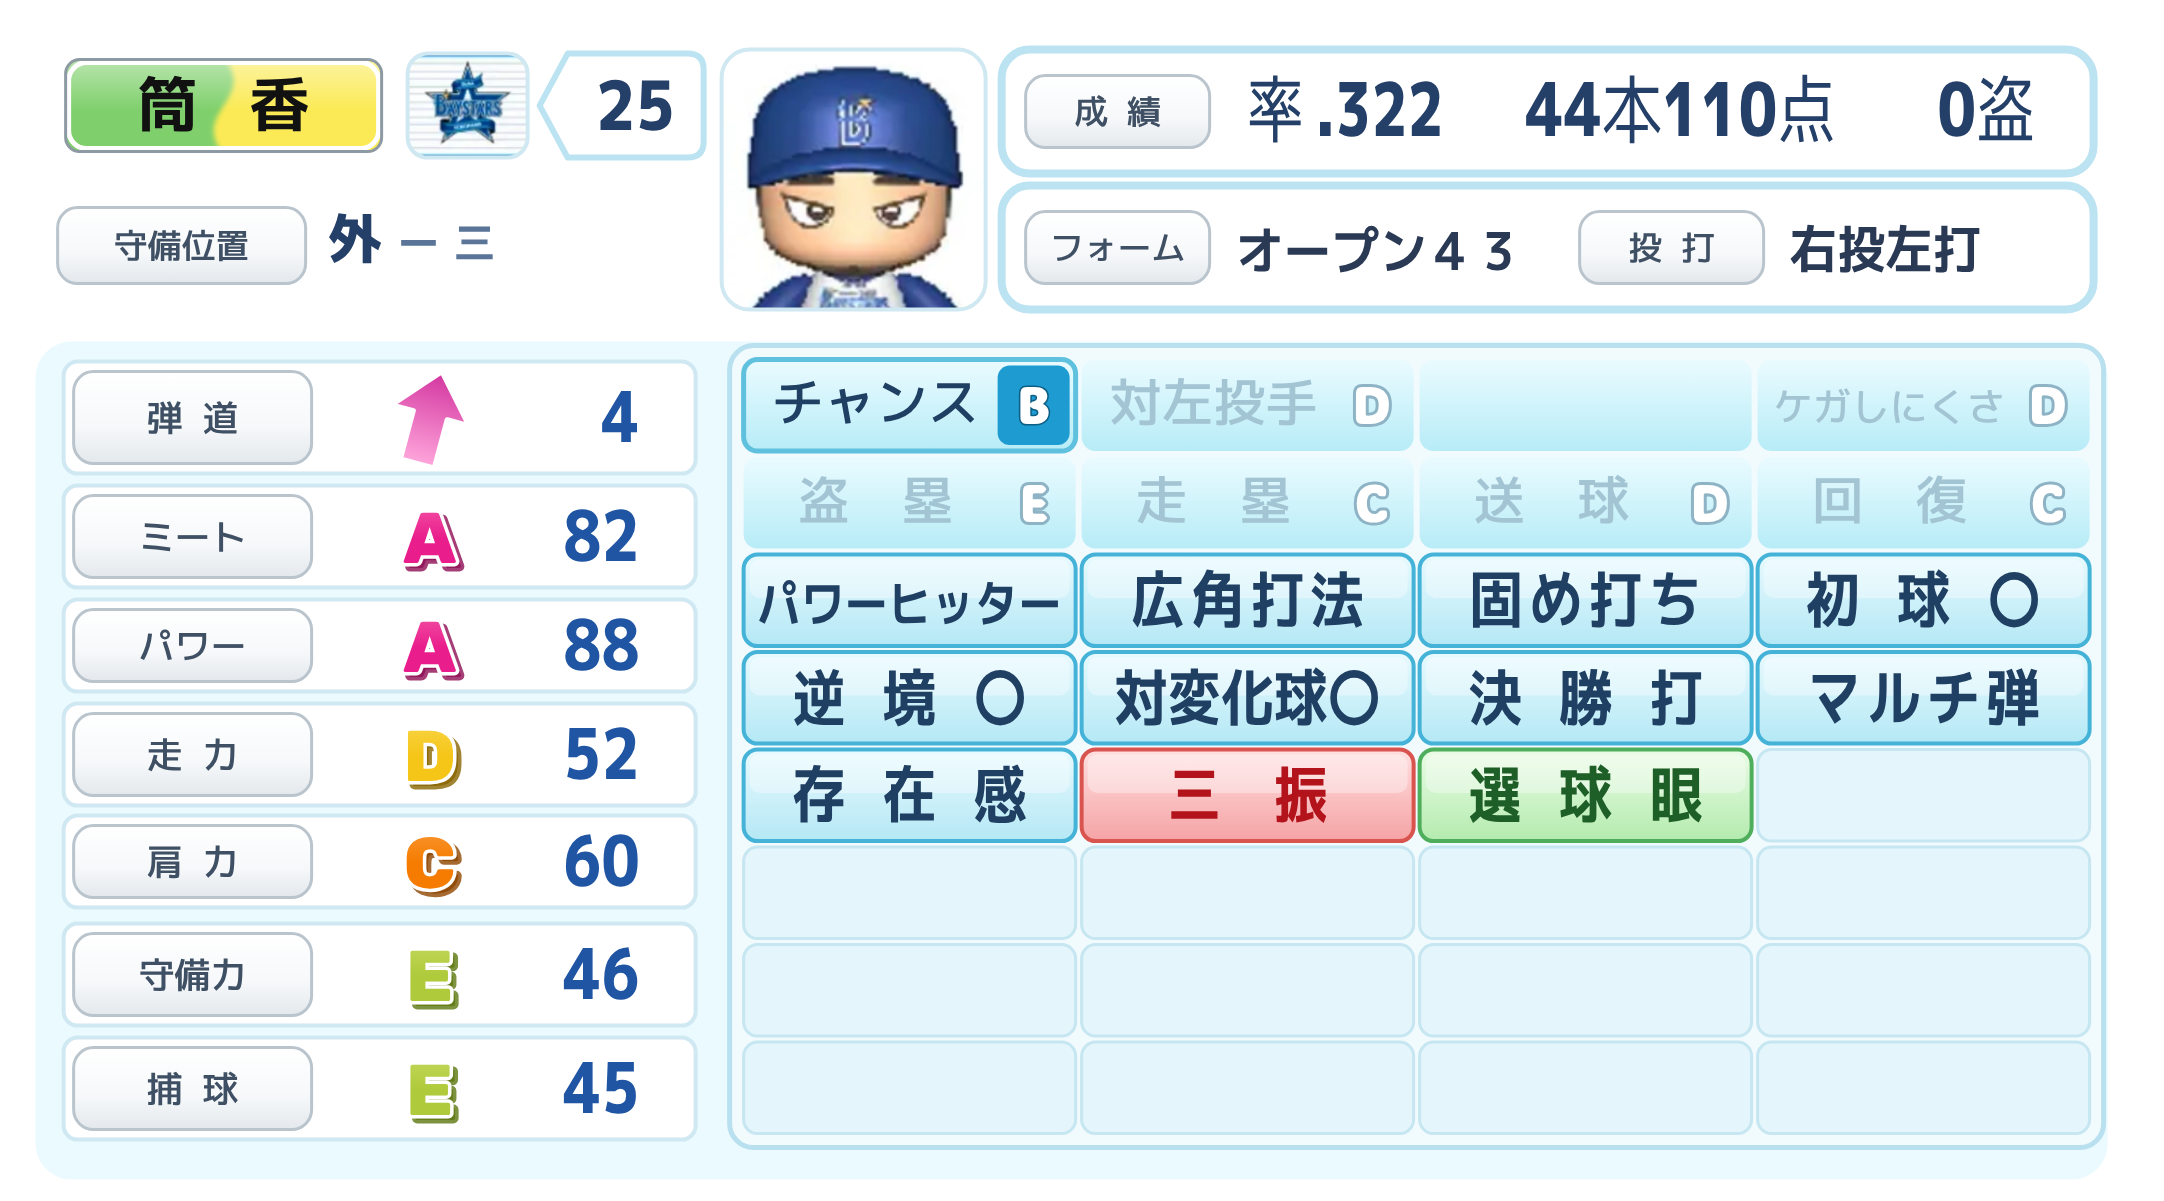
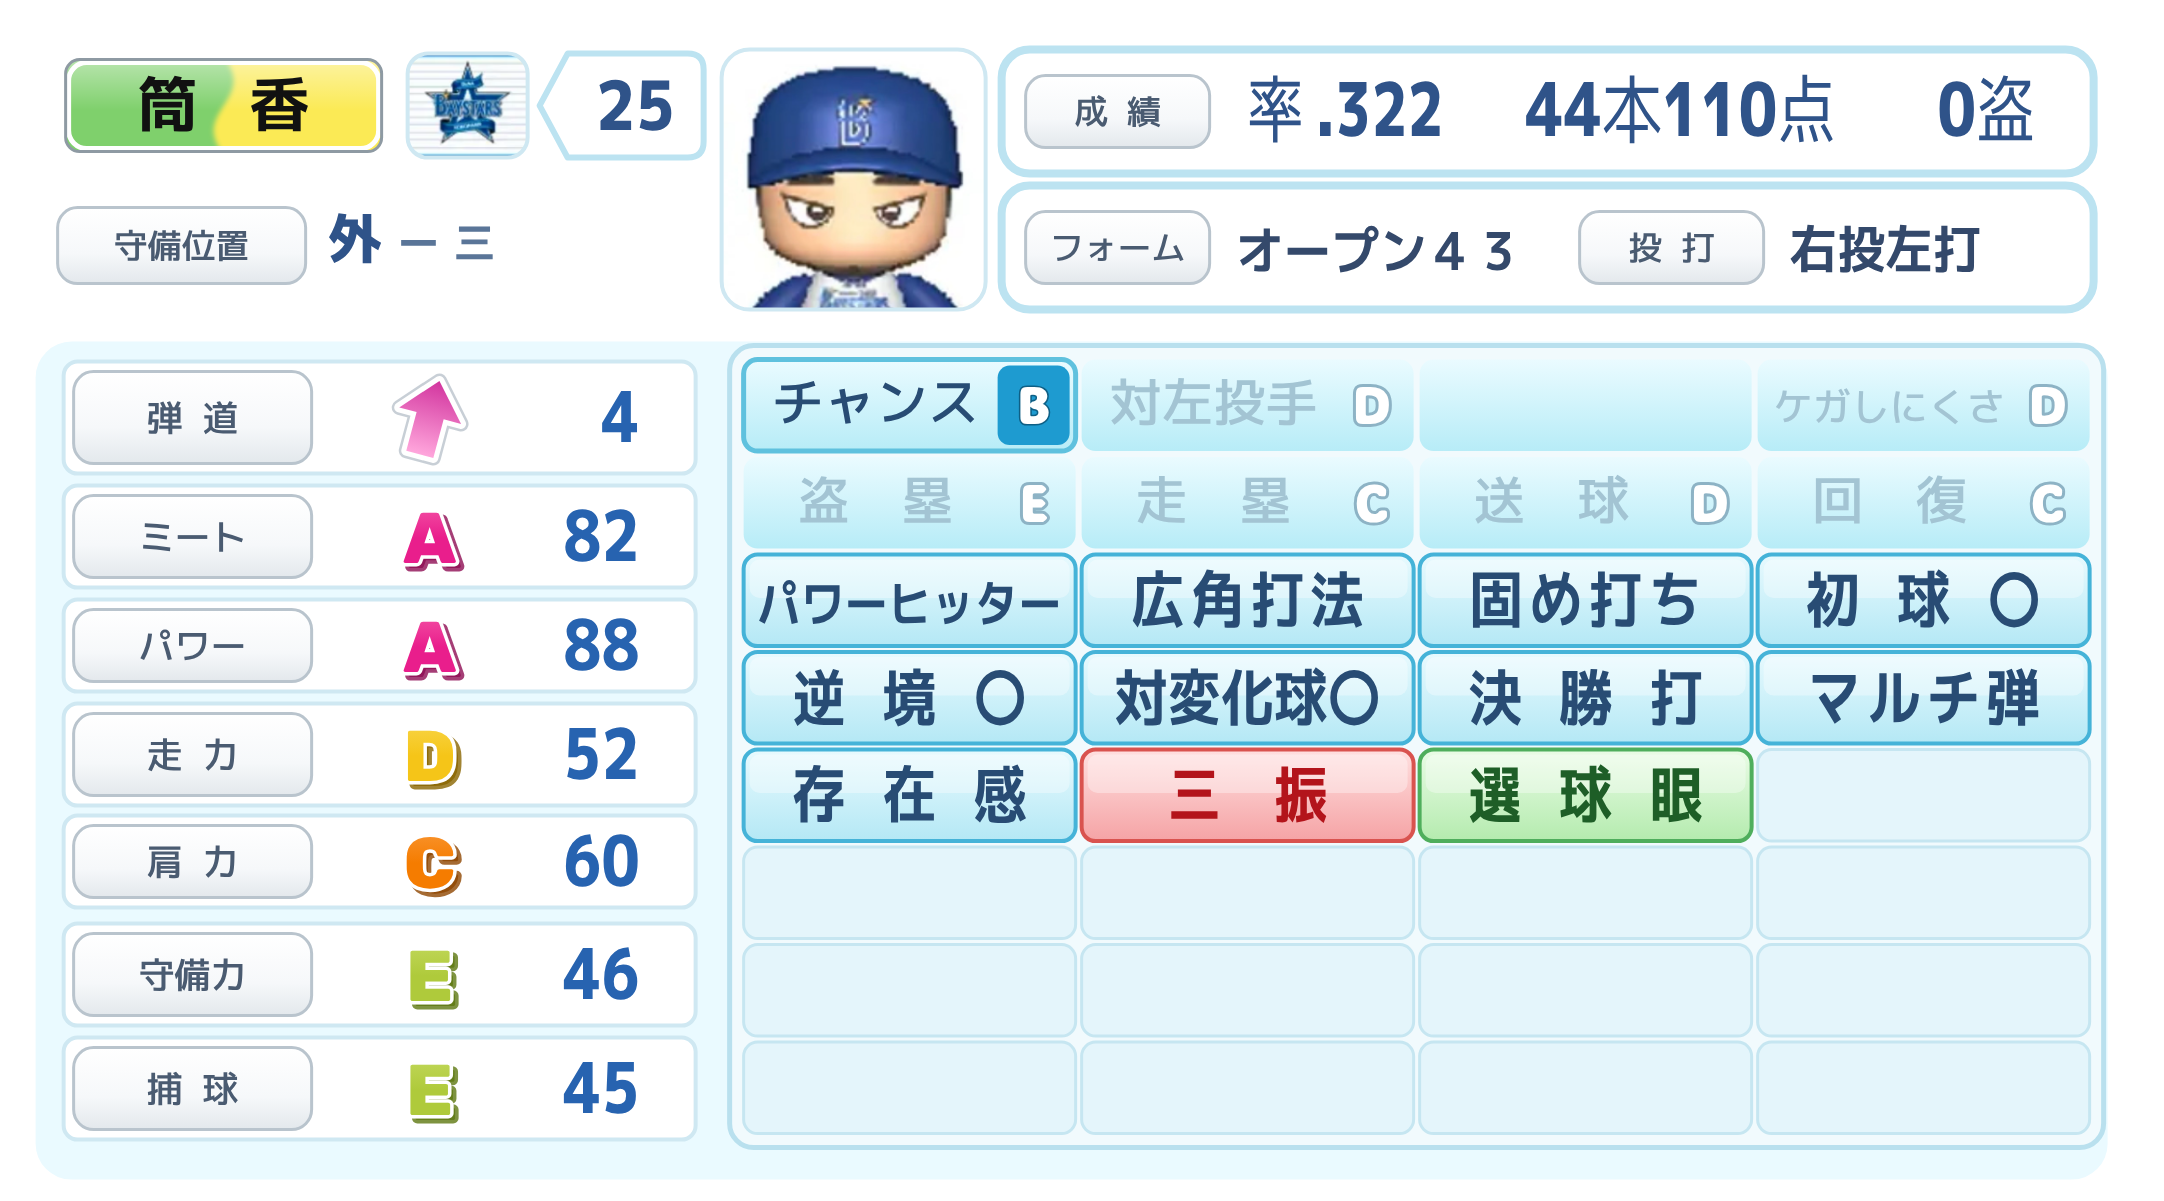
能力画像ジェネレーター（野手）：弾道の矢印を小さく白縁を太く、文字の紺を薄く
- 弾道の矢印をひと回り小さくし、白い縁取りを太く（外側にごく薄い影の縁）
- 成績・フォーム・投打・守備位置・背番号の値、能力値の数字、特殊能力と
  項目名の文字の紺を一段薄く
- 使用例の画像を作り直す

Claude-Session: https://claude.ai/code/session_01SKh1jhAp32CEmbZCaaEmgk

diff --git a/nouryoku/index.html b/nouryoku/index.html
@@ -337,7 +337,7 @@ footer.disclaimer{ margin-top:30px; font-size:0.82rem; color:var(--ink-mute); bo
 </p>
 
 <p>
-<img src="/nouryoku/example-tsutsugo.png?v=11" alt="パワプロ風 能力画像ジェネレーター（野手）で作成した能力画像の例" width="2164" height="1201" loading="lazy" style="max-width:100%; height:auto; border:1px solid #c2cad6; border-radius:12px;">
+<img src="/nouryoku/example-tsutsugo.png?v=12" alt="パワプロ風 能力画像ジェネレーター（野手）で作成した能力画像の例" width="2164" height="1201" loading="lazy" style="max-width:100%; height:auto; border:1px solid #c2cad6; border-radius:12px;">
 </p>
 
 <h2>よくある質問</h2>
@@ -699,7 +699,7 @@ function labelPill(x, y, w, h, text, size) {
     return '<defs><linearGradient id="' + gid + '" x1="0" y1="0" x2="0" y2="1">' +
            '<stop offset="0" stop-color="#FFFFFF"/><stop offset="0.6" stop-color="#F6F8FA"/><stop offset="1" stop-color="#E3E8EC"/></linearGradient></defs>' +
            '<rect x="' + x + '" y="' + y + '" width="' + w + '" height="' + h + '" rx="' + Math.min(10, h / 2) + '" fill="url(#' + gid + ')" stroke="#B9C4CD" stroke-width="1.5"/>' +
-           '<text ' + fitAttr + ' x="' + (x + w / 2) + '" y="' + (y + h / 2 + fs * 0.36) + '" text-anchor="middle" font-size="' + fs + '" font-weight="500" fill="#3F5064" font-family="&quot;M PLUS 1p&quot;,&quot;Hiragino Kaku Gothic ProN&quot;,sans-serif">' + esc(text) + '</text>';
+           '<text ' + fitAttr + ' x="' + (x + w / 2) + '" y="' + (y + h / 2 + fs * 0.36) + '" text-anchor="middle" font-size="' + fs + '" font-weight="500" fill="#4A5B71" font-family="&quot;M PLUS 1p&quot;,&quot;Hiragino Kaku Gothic ProN&quot;,sans-serif">' + esc(text) + '</text>';
 }
 
 /* ---- 能力値のランク文字 ----
@@ -882,7 +882,7 @@ function buildCatBadges() {
    赤特は純粋な赤色の単色。赤青特（☆がプラスの赤特）だけ左赤・右青のツートンにする。 */
 var CAT_STYLE = {
     kintoku: { bg: ["#FFF3D0", "#F5DFA8"], border: "#E0B03C", text: "#7A4520" },
-    aoto:    { bg: ["#E8FAFE", "#B4E8F5"], border: "#45B3D8", text: "#1F3F63" },
+    aoto:    { bg: ["#E8FAFE", "#B4E8F5"], border: "#45B3D8", text: "#284C74" },
     midori:  { bg: ["#EAFCE6", "#B4EBAE"], border: "#4FAE5C", text: "#1E5E27" },
     aka:     { bg: ["#FFE0E0", "#F5A3A5"], border: "#D9534F", text: "#B3141B" }
 };
@@ -943,7 +943,7 @@ function trajArrow(cx, cy, value) {
     var spec = TRAJ_ARROW[value] || TRAJ_ARROW[1];
     /* 実機の太い矢印。右向きの矢を基準に、値に応じて回転させる
        （弾道4はほぼ真上）。軸に沿って明るい色から濃い色へのグラデーション */
-    var k = 1.25;
+    var k = 1.0;
     var pts = [
         [19, 0], [1, -16], [1, -7], [-19, -7], [-19, 7], [1, 7], [1, 16]
     ].map(function (p) { return (cx + p[0] * k) + "," + (cy + p[1] * k); }).join(" ");
@@ -951,7 +951,8 @@ function trajArrow(cx, cy, value) {
     return '<defs><linearGradient id="' + gid + '" gradientUnits="userSpaceOnUse" x1="' + (cx - 19 * k) + '" y1="' + cy + '" x2="' + (cx + 19 * k) + '" y2="' + cy + '">' +
            '<stop offset="0" stop-color="' + spec.light + '"/><stop offset="1" stop-color="' + spec.color + '"/></linearGradient></defs>' +
            '<g transform="rotate(' + spec.angle + ' ' + cx + ' ' + cy + ')">' +
-           '<polygon points="' + pts + '" fill="url(#' + gid + ')" stroke="#FFFFFF" stroke-width="2.5" stroke-linejoin="round"/>' +
+           '<polygon points="' + pts + '" fill="none" stroke="#9AA8B4" stroke-opacity="0.55" stroke-width="7.5" stroke-linejoin="round"/>' +
+           '<polygon points="' + pts + '" fill="url(#' + gid + ')" stroke="#FFFFFF" stroke-width="5" stroke-linejoin="round" paint-order="stroke fill"/>' +
            '</g>';
 }
 
@@ -1019,7 +1020,7 @@ function renderCard() {
                はっきり分かるようにする */
             var isHigh = b.rank === "A" || b.rank === "B";
             var isPaleText = b.rank === "C" || b.rank === "D" || b.rank === "E";
-            var textColor = tier === "bad" ? "#7A2020" : (isPaleText ? "#A3C4D3" : "#1F3F63");
+            var textColor = tier === "bad" ? "#7A2020" : (isPaleText ? "#A3C4D3" : "#284C74");
             /* 実機：B以上は青い四角に白い字、C〜Eは四角無しで白抜きの字（薄い灰青の縁）だけ、F・Gは赤 */
             var tagFill = tier === "bad" ? BADGE_RANK_TAG[b.rank] : "#1E9BD0";
             var tagStroke = tier === "bad" ? "#7A1F1A" : (isPaleText ? "#8DB3C5" : "#0E5F85");
@@ -1076,7 +1077,7 @@ function renderCard() {
         return '<rect x="' + L.statColX + '" y="' + y + '" width="' + statCardW + '" height="' + h + '" rx="7" fill="#FFFFFF" stroke="#CFE8F2" stroke-width="2"/>' +
                labelPill(L.statColX + 5, y + 5, L.statLabelW - 6, h - 10, labelVal("statlabel-" + s.id, s.label), 18) +
                rankText +
-               '<text data-squeeze="0.84" data-max="' + (L.statNumW - 24) + '" x="' + (L.statNumX + L.statNumW - 28) + '" y="' + (y + h / 2 + 12) + '" text-anchor="end" font-size="35" font-weight="800" fill="#1F55A3" font-family="&quot;M PLUS 1p&quot;,&quot;Hiragino Kaku Gothic ProN&quot;,sans-serif">' + esc(v) + '</text>';
+               '<text data-squeeze="0.84" data-max="' + (L.statNumW - 24) + '" x="' + (L.statNumX + L.statNumW - 28) + '" y="' + (y + h / 2 + 12) + '" text-anchor="end" font-size="35" font-weight="800" fill="#2763B0" font-family="&quot;M PLUS 1p&quot;,&quot;Hiragino Kaku Gothic ProN&quot;,sans-serif">' + esc(v) + '</text>';
     }).join("");
 
     var gridBottom = L.gridRowY0 + rows * L.gridRowH;
@@ -1086,7 +1087,7 @@ function renderCard() {
 
     var bio1 = L.bio1Vals.map(function (b) {
         var val = b.keys.map(function (k) { return document.getElementById("p-" + k).value.trim(); }).join("");
-        return '<text data-squeeze="0.8" data-max="' + b.w + '" x="' + b.x + '" y="' + (b.y + 32) + '"' + (b.anchor ? ' text-anchor="' + b.anchor + '"' : '') + ' font-size="37" font-weight="700" fill="#243F68" font-family="&quot;M PLUS 1p&quot;,&quot;Hiragino Kaku Gothic ProN&quot;,sans-serif">' + unitTspans(b.pre, val) + '</text>';
+        return '<text data-squeeze="0.8" data-max="' + b.w + '" x="' + b.x + '" y="' + (b.y + 32) + '"' + (b.anchor ? ' text-anchor="' + b.anchor + '"' : '') + ' font-size="37" font-weight="700" fill="#2F5389" font-family="&quot;M PLUS 1p&quot;,&quot;Hiragino Kaku Gothic ProN&quot;,sans-serif">' + unitTspans(b.pre, val) + '</text>';
     }).join("");
 
     var svg = '' +
@@ -1111,7 +1112,7 @@ function renderCard() {
 
         /* 背番号 */
         numTab(L.numBox.x, L.numBox.y, L.numBox.w, L.numBox.h) +
-        (number ? '<text data-squeeze="0.9" data-max="' + (L.numBox.w - 14) + '" x="' + (L.numBox.x + 7 + L.numBox.w / 2) + '" y="' + (L.numBox.y + L.numBox.h / 2 + 12) + '" text-anchor="middle" font-size="34" font-weight="800" fill="#243F68" font-family="&quot;M PLUS 1p&quot;,&quot;Hiragino Kaku Gothic ProN&quot;,sans-serif">' + esc(number) + '</text>' : '') +
+        (number ? '<text data-squeeze="0.9" data-max="' + (L.numBox.w - 14) + '" x="' + (L.numBox.x + 7 + L.numBox.w / 2) + '" y="' + (L.numBox.y + L.numBox.h / 2 + 12) + '" text-anchor="middle" font-size="34" font-weight="800" fill="#2F5389" font-family="&quot;M PLUS 1p&quot;,&quot;Hiragino Kaku Gothic ProN&quot;,sans-serif">' + esc(number) + '</text>' : '') +
 
         /* 顔写真枠（アップロードした画像があればそれを表示、無ければプレースホルダー） */
         (playerPhotoImg
@@ -1122,7 +1123,7 @@ function renderCard() {
 
         /* 守備位置 */
         labelPill(L.posLabel.x, L.posLabel.y, L.posLabel.w, L.posLabel.h, labelVal("label-pos", "守備位置"), 17) +
-        '<text data-fit="' + (L.posValue.w - 10) + '" x="' + L.posValue.x + '" y="' + (L.posValue.y + L.posValue.h / 2 + 9) + '" font-size="27" font-weight="800" fill="#243F68" font-family="&quot;M PLUS 1p&quot;,&quot;Hiragino Kaku Gothic ProN&quot;,sans-serif">' + esc(pos) +
+        '<text data-fit="' + (L.posValue.w - 10) + '" x="' + L.posValue.x + '" y="' + (L.posValue.y + L.posValue.h / 2 + 9) + '" font-size="27" font-weight="800" fill="#2F5389" font-family="&quot;M PLUS 1p&quot;,&quot;Hiragino Kaku Gothic ProN&quot;,sans-serif">' + esc(pos) +
             (subClean ? '<tspan dx="8" font-size="21" font-weight="700" fill="#5A7598">ー</tspan><tspan dx="7" font-size="21" font-weight="700" fill="#5A7598">' + esc(subClean) + '</tspan>' : '') + '</text>' +
 
         /* 成績・フォーム・投打（2段のパネル） */
@@ -1132,9 +1133,9 @@ function renderCard() {
 
         '<rect x="' + L.bioRow2.x + '" y="' + L.bioRow2.y + '" width="' + L.bioRow2.w + '" height="' + L.bioRow2.h + '" rx="14" fill="#ffffff" stroke="#BCE3F1" stroke-width="4"/>' +
         labelPill(L.bio2Label1.x, L.bio2Label1.y, L.bio2Label1.w, L.bio2Label1.h, labelVal("label-form", "フォーム"), 17) +
-        '<text data-squeeze="0.92" data-max="' + (L.bio2Val1.w - 6) + '" x="' + L.bio2Val1.x + '" y="' + (L.bio2Val1.y + L.bio2Val1.h / 2 + 9) + '" font-size="26" font-weight="700" fill="#2A3A55" font-family="&quot;M PLUS 1p&quot;,&quot;Hiragino Kaku Gothic ProN&quot;,sans-serif">' + esc(zenkakuDigits(form)) + '</text>' +
+        '<text data-squeeze="0.92" data-max="' + (L.bio2Val1.w - 6) + '" x="' + L.bio2Val1.x + '" y="' + (L.bio2Val1.y + L.bio2Val1.h / 2 + 9) + '" font-size="26" font-weight="700" fill="#34496B" font-family="&quot;M PLUS 1p&quot;,&quot;Hiragino Kaku Gothic ProN&quot;,sans-serif">' + esc(zenkakuDigits(form)) + '</text>' +
         labelPill(L.bio2Label2.x, L.bio2Label2.y, L.bio2Label2.w, L.bio2Label2.h, labelVal("label-throwbat", "投打"), 17) +
-        '<text data-squeeze="0.92" data-max="' + (L.bio2Val2.w - 6) + '" x="' + L.bio2Val2.x + '" y="' + (L.bio2Val2.y + L.bio2Val2.h / 2 + 9) + '" font-size="26" font-weight="700" fill="#2A3A55" font-family="&quot;M PLUS 1p&quot;,&quot;Hiragino Kaku Gothic ProN&quot;,sans-serif">' + esc(throwbat) + '</text>' +
+        '<text data-squeeze="0.92" data-max="' + (L.bio2Val2.w - 6) + '" x="' + L.bio2Val2.x + '" y="' + (L.bio2Val2.y + L.bio2Val2.h / 2 + 9) + '" font-size="26" font-weight="700" fill="#34496B" font-family="&quot;M PLUS 1p&quot;,&quot;Hiragino Kaku Gothic ProN&quot;,sans-serif">' + esc(throwbat) + '</text>' +
 
         /* 能力値テーブル */
         statHTML +
